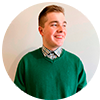
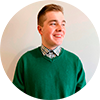
upd

diff --git a/_includes/contact.html b/_includes/contact.html
@@ -21,7 +21,13 @@
 
     {% if sidebar.linkedin %}
     <li class="linkedin"><i class="fab fa-linkedin"></i>
-      <a href="https://linkedin.com/in/{{ sidebar.linkedin }}" target="_blank">{{ sidebar.linkedin }}</a>
+      <a href="https://join.skype.com/invite/e3tnibQ82uhR" target="_blank">{{ sidebar.linkedin }}</a>
+    </li>
+    {% endif %}
+
+    {% if sidebar.skype %}
+    <li class="skype"><i class="fab fa-skype"></i>
+      <a href="{{ sidebar.skype-link }}" target="_blank">{{ sidebar.skype }}</a>
     </li>
     {% endif %}
 
@@ -51,7 +57,7 @@
 
     {% if sidebar.stack-overflow %}
     <li class="stack-overflow"><i class="fab fa-stack-overflow"></i>
-      <a href="https://stackoverflow.com/users/{{ sidebar.stack-overflow }}" target="_blank">{{ sidebar.stack-overflow }}</a>
+      <a href="https://ru.stackoverflow.com/users/{{ sidebar.stack-overflow }}" target="_blank">{{ sidebar.stack-overflow }}</a>
     </li>
     {% endif %}
 

diff --git a/_includes/top-skills.html b/_includes/top-skills.html
@@ -1,0 +1,31 @@
+{% assign top-skills = site.data.data.top-skills %}
+{% if top-skills %}
+<section class="skills-section section">
+
+  <h2 class="section-title">
+    <span class="fa-stack fa-xs">
+      <i class="fas fa-circle fa-stack-2x"></i>
+      <i class="fa fa-star fa-stack-1x fa-inverse"></i>
+    </span>
+    {{ top-skills.title }}
+  </h2>
+
+  <div class="skillset">
+
+    {% for top-skill in top-skills.toolset %}
+    <div class="item">
+
+      <h3 class="level-title">{{ top-skill.name }}</h3>
+
+      <div class="level-bar">
+        <div class="level-bar-inner" data-level="{{ top-skill.level }}">
+        </div>
+      </div><!--//level-bar-->
+
+    </div><!--//item-->
+    {% endfor %}
+
+  </div>
+
+</section><!--//skills-section-->
+{% endif %}

diff --git a/_sass/_base.scss b/_sass/_base.scss
@@ -75,7 +75,7 @@ p {
         //used for profile image
         max-width: 100px;
         margin-bottom: 15px;
-        border: 0px solid #fff;
+        border: 1px solid #fff;
         border-radius: 100%;
         box-shadow: 0 1px 1px rgba(0, 0, 0, 0.1);
     }
@@ -196,6 +196,22 @@ p {
     .company, .university {
         margin-bottom: 10px;
         color: $text-grey;
+    }
+
+    .company-block {
+        border-bottom: 1px solid;
+        border-top: 1px solid;
+        border-color: #eee;
+        padding: 10px 0 8px 0;
+
+        .company {
+            margin-bottom: 0px;
+        }
+    }
+
+    .project-delimiter {
+        border-top-style: dotted;
+        border-top-color: #efefef;
     }
 
     .project-title {

diff --git a/index.html b/index.html
@@ -9,10 +9,12 @@ layout: default
   {% include education.html %}
 {% endunless %}
 
+{% include top-skills.html %}
+
+{% include skills.html %}
+
 {% include experiences.html %}
 
 {% include projects.html %}
 
 {% include publications.html %}
-
-{% include skills.html %}

diff --git a/_includes/sidebar.html b/_includes/sidebar.html
@@ -19,11 +19,12 @@
 
   {% include contact.html %}
 
+  {% include language.html %}
+
   {% if sidebar.education %}
     {% include education.html %}
   {% endif %}
 
-  {% include language.html %}
   {% include interests.html %}
 
   {% if sidebar.about %}

diff --git a/_includes/experiences.html b/_includes/experiences.html
@@ -12,7 +12,7 @@
   {% for experience in experiences %}
   <div class="item">
 
-    <div class="meta">
+    <div class="meta company-block">
 
       <div class="upper-row">
         <h3 class="job-title">{{ experience.role }}</h3>
